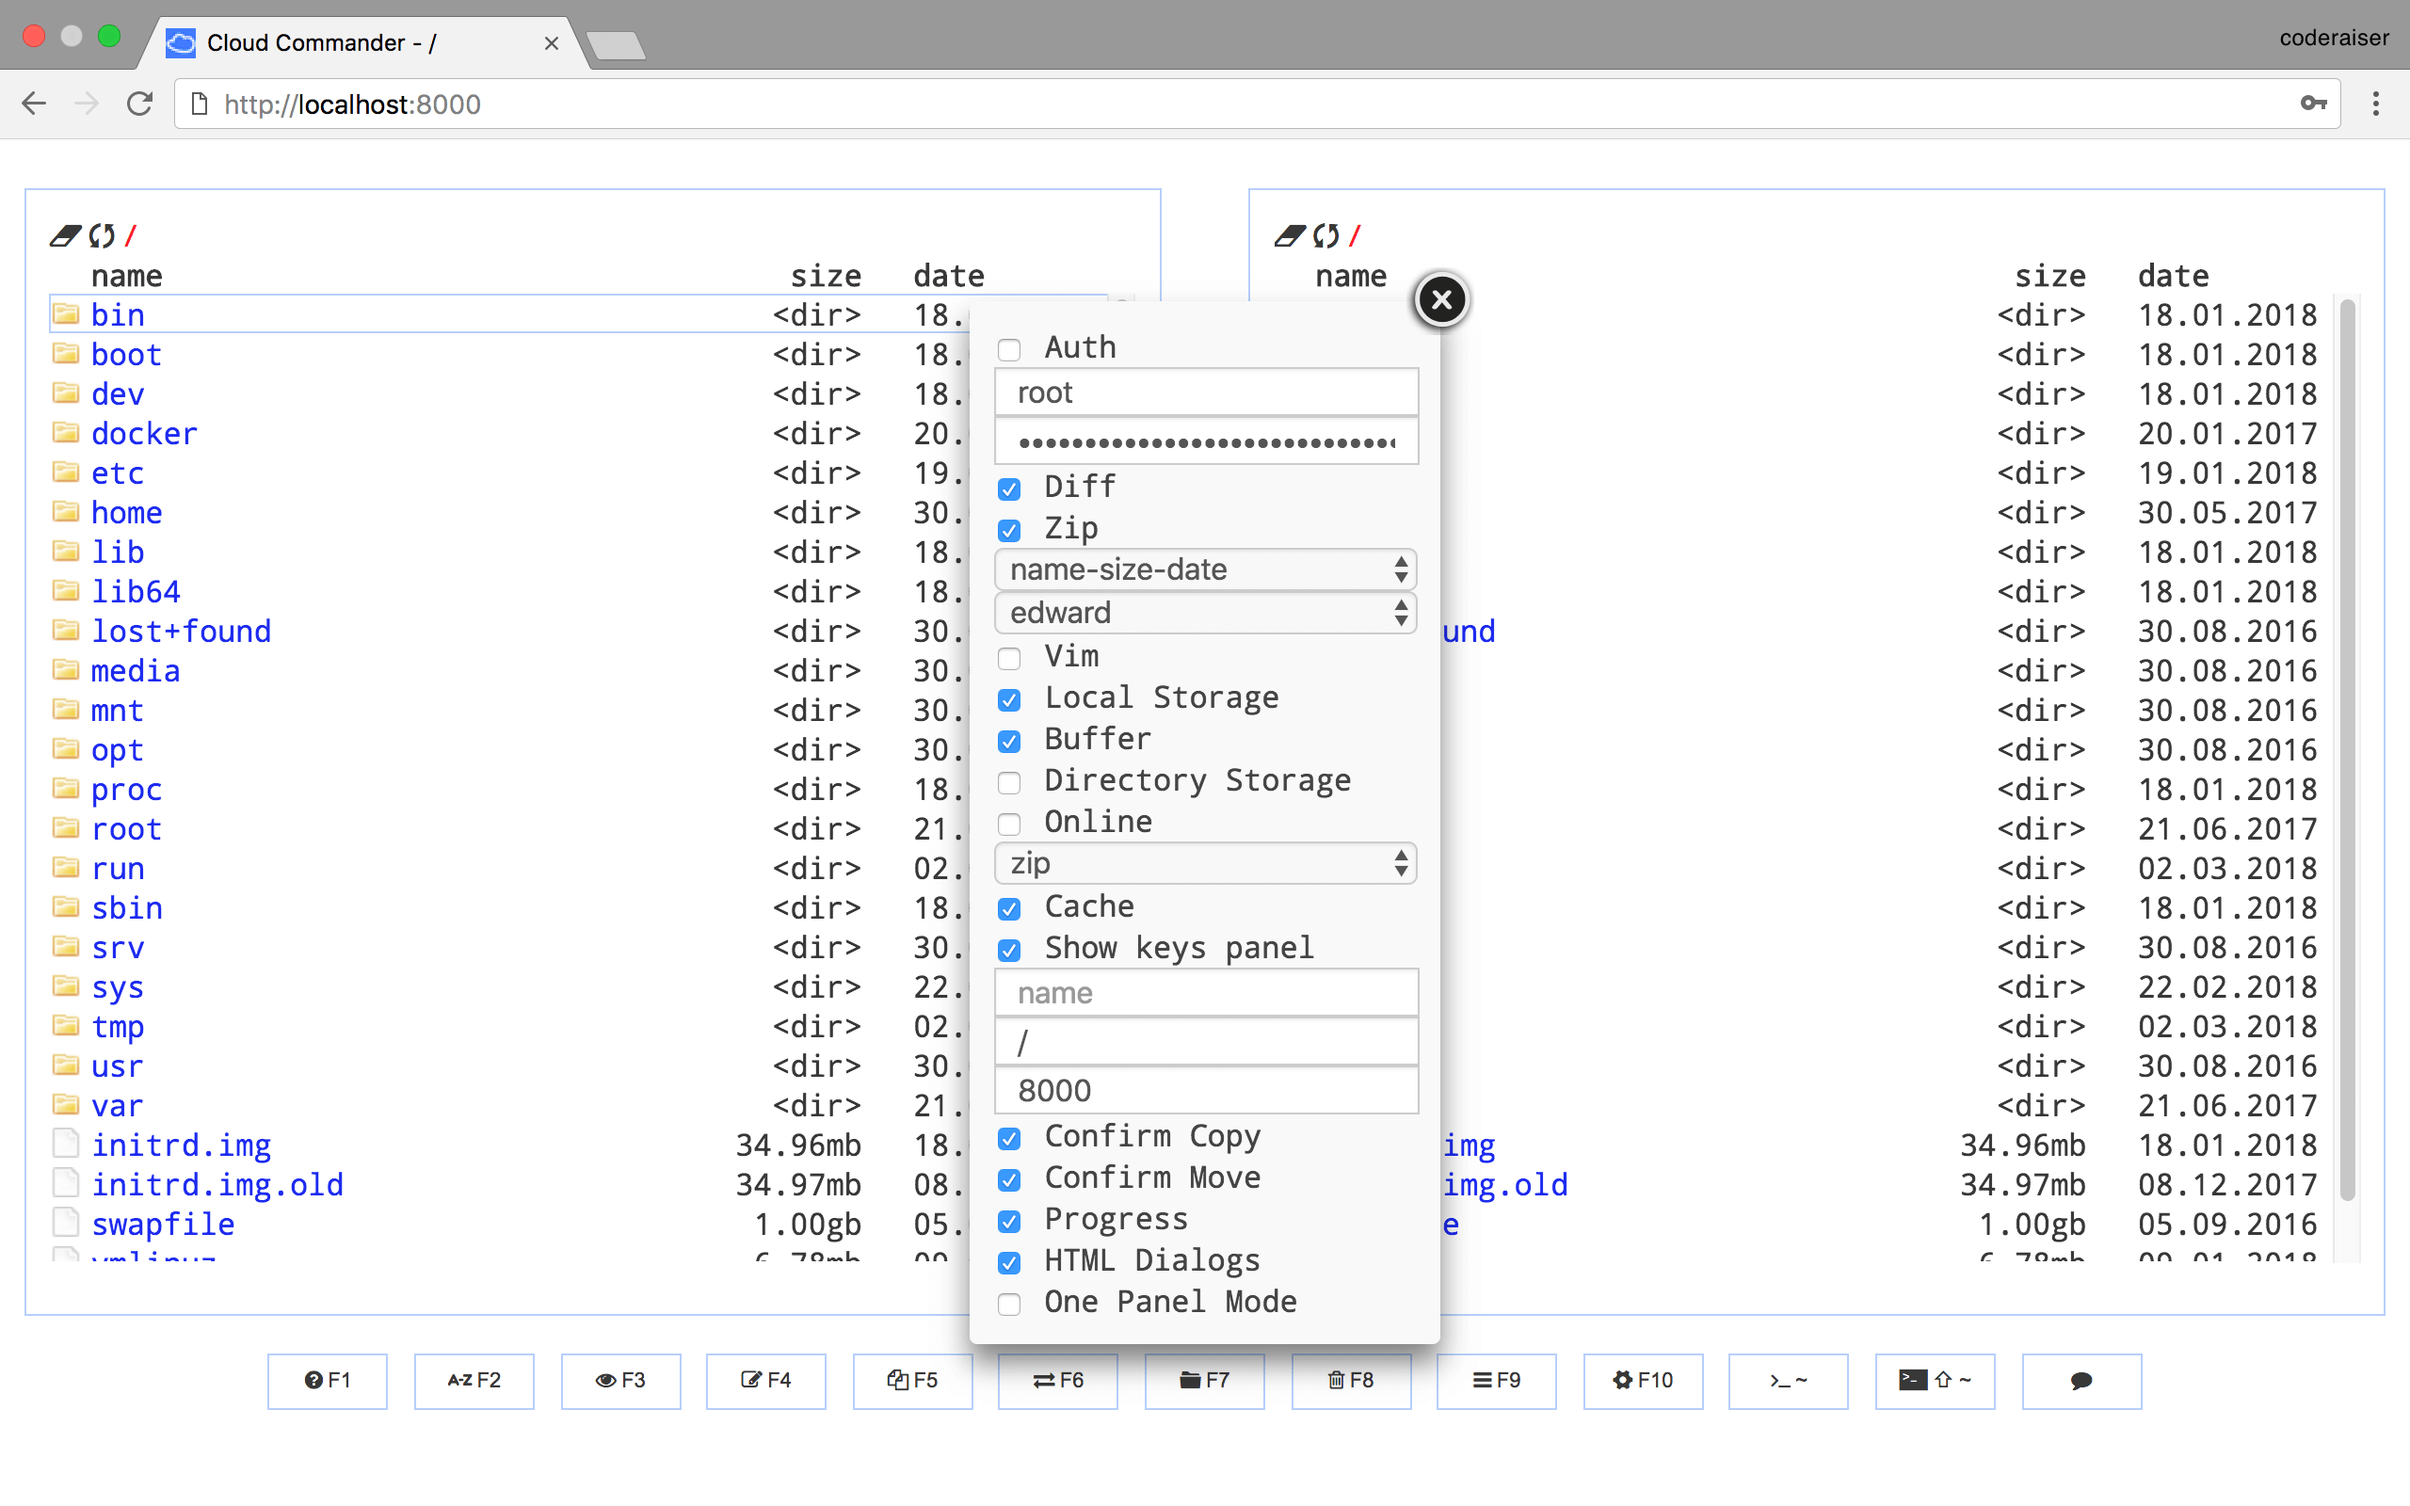
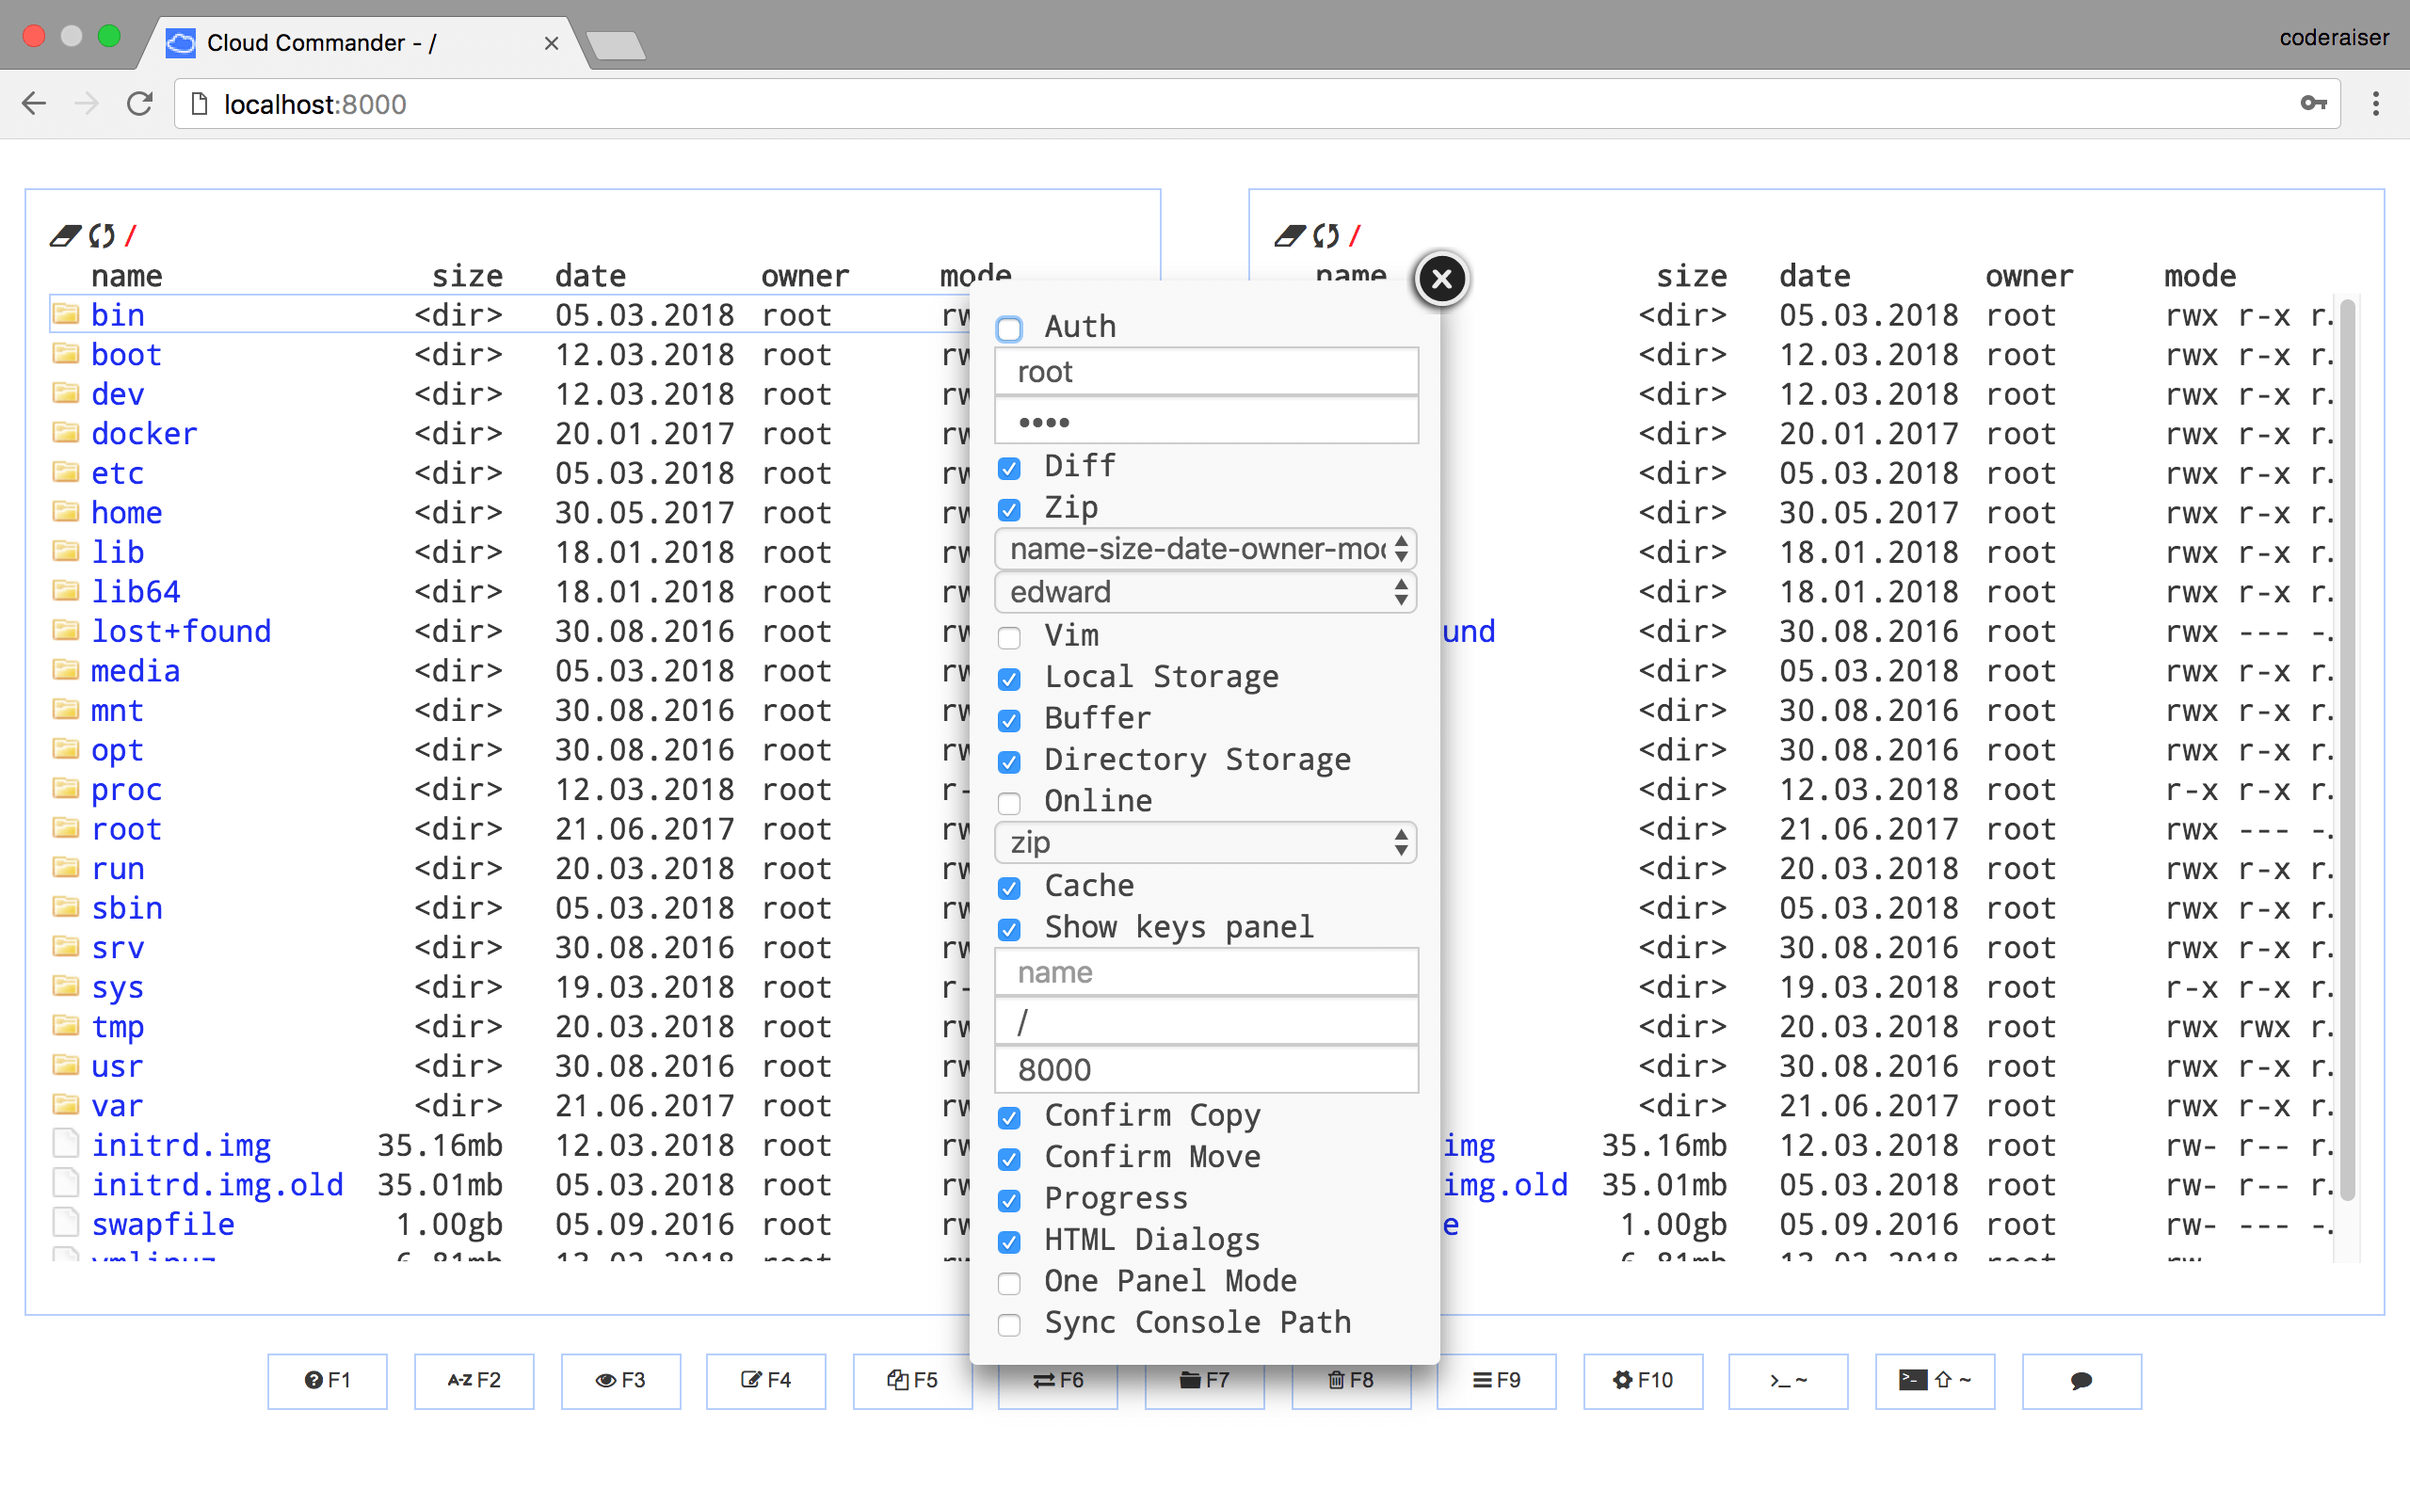
chore(package) v8.5.0

diff --git a/index.md b/index.md
@@ -22,7 +22,7 @@ styles:
 hideDownloadButtons: true
 ---
 
-# Cloud Commander v8.4.1
+# Cloud Commander v8.5.0
 
 ### [Main][MainURL] [Blog][BlogURL] Live(![Heroku][Heroku_LIVE_IMG] [Heroku][HerokuURL], ![Now][NOW_LIVE_IMG] [Now][NowURL])
 
@@ -113,6 +113,7 @@ Cloud Commander supports command line parameters:
 | `--contact`                   | enable contact
 | `--config-dialog`             | enable config dialog
 | `--console`                   | enable console
+| `--sync-console-path`         | sync console path
 | `--terminal`                  | enable terminal
 | `--terminal-path`             | set terminal path
 | `--vim`                       | enable vim hot keys
@@ -130,6 +131,7 @@ Cloud Commander supports command line parameters:
 | `--no-contact`                | disable contact
 | `--no-config-dialog`          | disable config dialog
 | `--no-console`                | disable console
+| `--no-sync-console-path`      | do not sync console path
 | `--no-terminal`               | disable terminal
 | `--no-vim`                    | disable vim hot keys
 | `--no-columns`                | set visible default columns
@@ -400,6 +402,7 @@ Here is description of options:
     "contact"           : true,     /* enable contact                           */
     "configDialog"      : true,     /* enable config dialog                     */
     "console"           : true,     /* enable console                           */
+    "syncConsolePath"   : false     /* do not sync console path                 */
     "terminal"          : false,    /* disable terminal                         */
     "terminalPath"      : '',       /* path of a terminal                       */
     "vim"               : false,    /* disable vim hot keys                     */
@@ -417,6 +420,7 @@ Some config options can be overridden with `environment variables` such:
 - `CLOUDCMD_CONTACT` - enable contact
 - `CLOUDCMD_CONFIG_DIALOG` - enable config dialog
 - `CLOUDCMD_CONSOLE` - enable console
+- `CLOUDCMD_SYNC_CONSOLE_PATH` - sync console path
 - `CLOUDCMD_TERMINAL` - enable terminal
 - `CLOUDCMD_TERMINAL_PATH` - set terminal path
 - `CLOUDCMD_AUTH` - enable authentication
@@ -709,6 +713,7 @@ There is a lot ways to be involved in `Cloud Commander` development:
 
 Version history
 ---------------
+- *2018.03.20*, **[v8.5.0](//github.com/coderaiser/cloudcmd/releases/tag/v8.5.0)**
 - *2018.03.16*, **[v8.4.1](//github.com/coderaiser/cloudcmd/releases/tag/v8.4.1)**
 - *2018.03.14*, **[v8.4.0](//github.com/coderaiser/cloudcmd/releases/tag/v8.4.0)**
 - *2018.03.02*, **[v8.3.0](//github.com/coderaiser/cloudcmd/releases/tag/v8.3.0)**
